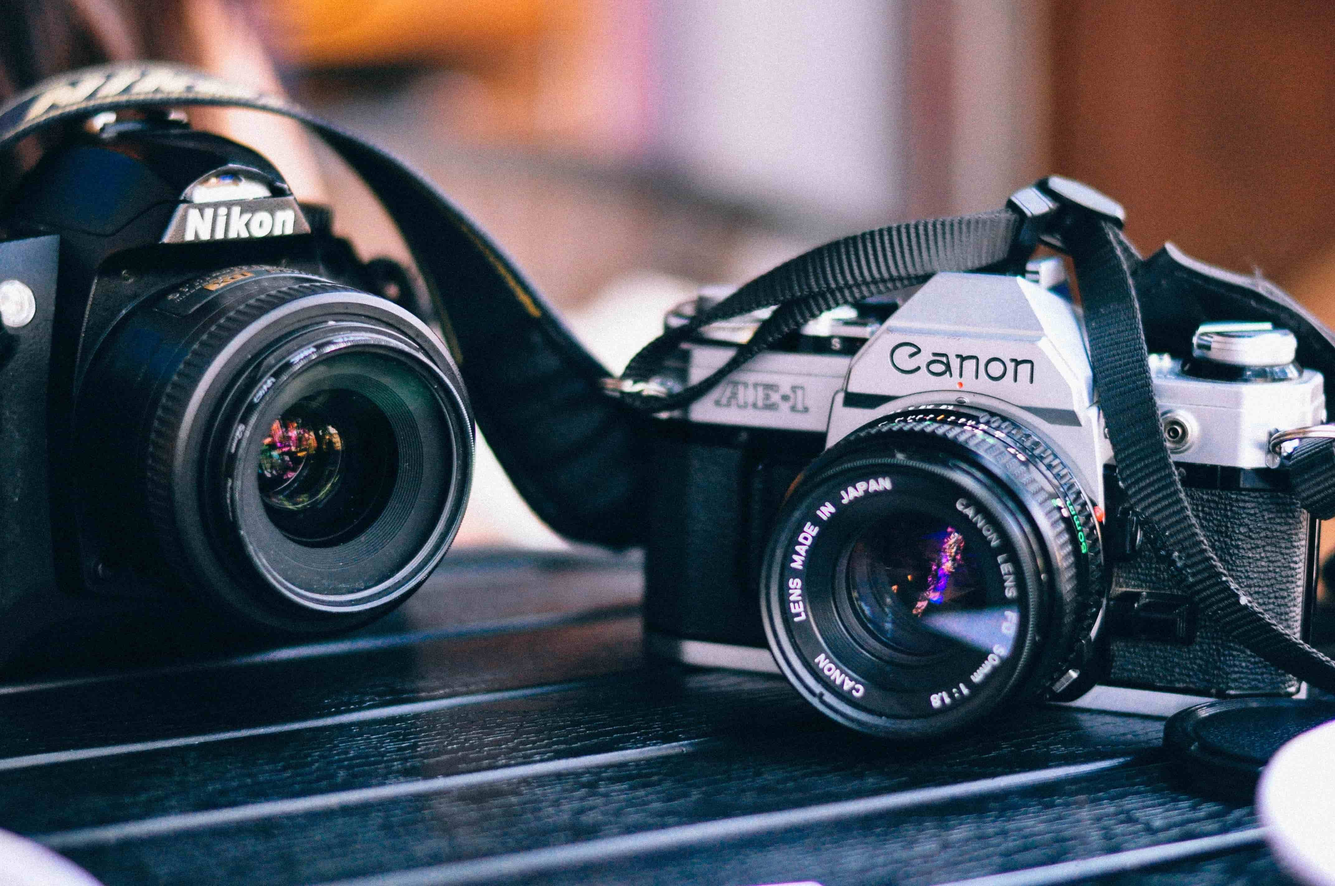
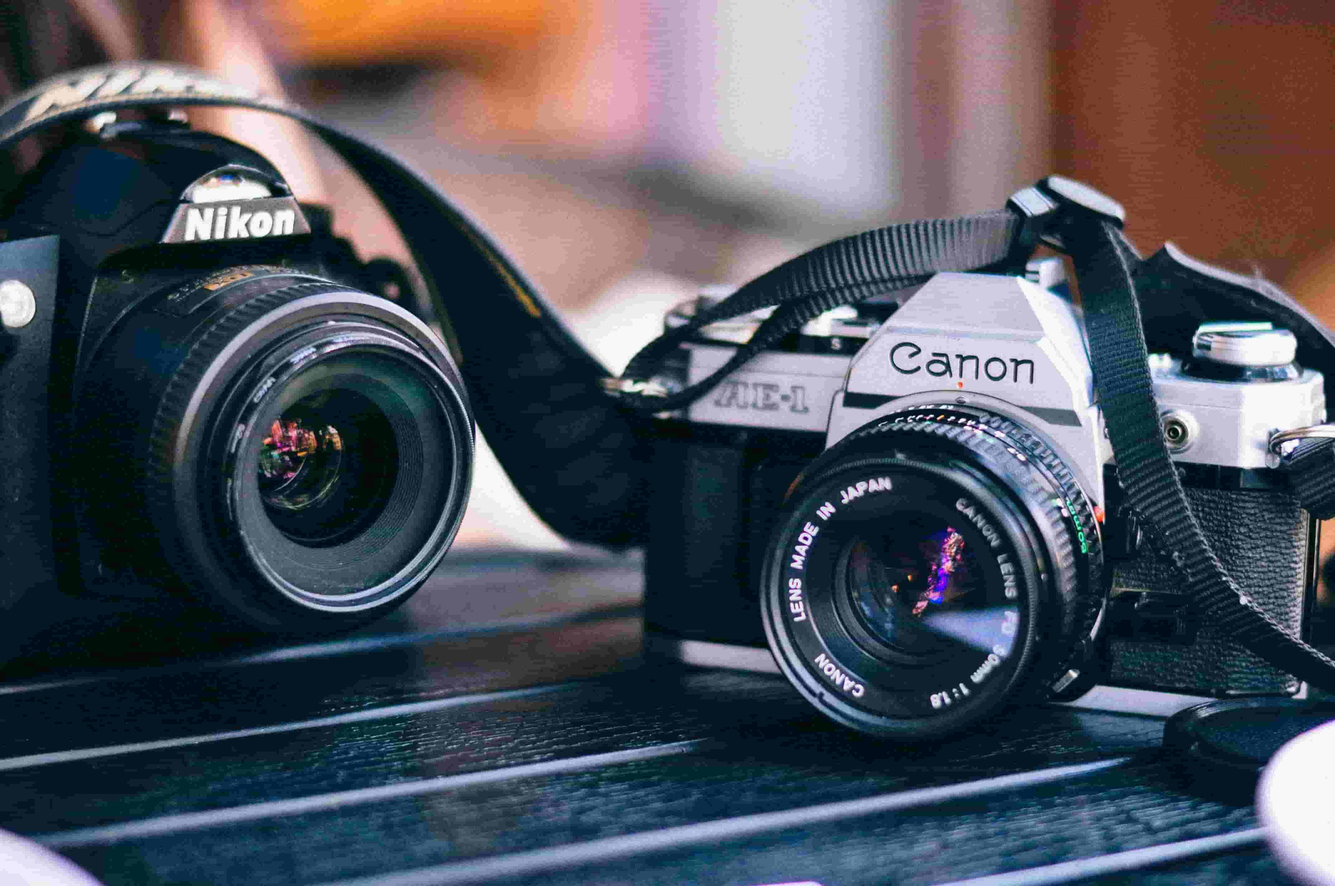
optimized images a second time, add hover effects to buttons, linked navbar

Changed region(s): [[0.7812, 0.5625, 0.8125, 0.5938], [0.6875, 0.625, 0.7188, 0.6562], [0.5938, 0.5938, 0.625, 0.625]]

diff --git a/CSS/index.css b/CSS/index.css
@@ -150,6 +150,7 @@ nav input.nav-input {
   border-radius: 3px;
   margin-left: 20px;
   justify-self: flex-start;
+  font-family: 'Nunito';
 }
 nav div.menu {
   justify-self: flex-end;
@@ -221,7 +222,7 @@ nav a.link:hover {
 }
 @media (max-width: 500px) {
   #home header .logo {
-    width: 350px;
+    width: 300px;
   }
 }
 #home header h1 {
@@ -241,6 +242,7 @@ nav a.link:hover {
   font-size: 1.3rem;
   font-weight: 700;
   transition: background-color 800ms ease, color 400ms ease;
+  outline: none;
 }
 #home header button:hover {
   background-color: rgba(70, 0, 128, 0.795);
@@ -260,6 +262,10 @@ div.selector button {
   border: none;
   font-size: 1.5rem;
   outline: none;
+  transition: font-size 700ms ease;
+}
+div.selector button:hover {
+  font-size: 1.8rem;
 }
 @media  (max-width: 900px) {
   div.selector button {
@@ -274,6 +280,7 @@ div.selector button {
 @media  (max-width: 900px) {
   .card-container {
     flex-wrap: wrap;
+    justify-content: center;
   }
 }
 .card-container .card-container::-webkit-scrollbar-button {
@@ -281,6 +288,7 @@ div.selector button {
 }
 .card {
   min-width: 185px;
+  opacity: 0.4;
   background-color: #d6d6d6;
   background-position: center;
   background-size: cover;
@@ -298,9 +306,14 @@ section#main h2 {
   font-size: 2rem;
   color: #303036;
 }
+@media  (max-width: 900px) {
+  section#main h2 {
+    text-align: center;
+  }
+}
 section#main div.categories .card {
   height: 250px;
-  opacity: 0.5;
+  opacity: 0.7;
   display: flex;
   justify-content: center;
   align-items: flex-end;
@@ -315,20 +328,33 @@ section#main div.categories .card h3 {
   width: 100%;
   text-align: center;
 }
-section#main div.categories .camera {
+@media (max-width: 500px) {
+  section#main div.top-rated {
+    display: none;
+  }
+}
+@media (max-width: 500px) {
+  section#main div.recommended {
+    display: none;
+  }
+}
+section#main .camera {
   background-image: url('/assets/categories/cameras.jpg');
 }
-section#main div.categories .computer {
+section#main .computer {
   background-image: url('/assets/categories/computers.jpg');
 }
-section#main div.categories .drone {
+section#main .drone {
   background-image: url('/assets/categories/drones.jpg');
 }
-section#main div.categories .headphones {
+section#main .headphones {
   background-image: url('/assets/categories/headphones.jpg');
 }
-section#main div.categories .projector {
+section#main .projector {
   background-image: url('/assets/categories/projector.jpg');
+}
+section#main .gear {
+  background-image: url('/assets/categories/gear.jpg');
 }
 section#about-us {
   width: 90%;
@@ -348,6 +374,7 @@ section#about-us div.about-content div.about-img {
   background-position: center;
   background-size: cover;
   min-width: 50%;
+  opacity: 1;
 }
 section#about-us div.about-content p {
   font-size: 1.5rem;
@@ -386,7 +413,7 @@ section#who-header {
   background-attachment: fixed;
 }
 section#who-header div.opacity {
-  background-color: rgba(61, 61, 61, 0.884);
+  background-color: rgba(65, 65, 87, 0.842);
   height: 100%;
   width: 100%;
 }
@@ -454,10 +481,11 @@ section#who .team-container .card {
   border-radius: 2px;
   background-color: #f5f5f5;
   box-shadow: none;
+  opacity: 1;
 }
 section#who .team-container img {
   width: 150px;
-  opacity: 0.8;
+  opacity: 0.9;
   border-radius: 100px;
 }
 section#who .team-container h3 {

diff --git a/index.html b/index.html
@@ -26,15 +26,15 @@
 
                <div class="menu">
                    <a href="about.html" class="link">Who we are</a>
-                   <a href="#" class="link">Signup</a>
-                   <a href="#" class="link">Login</a>
+                   <a href="https://usemytechstuff.netlify.com/" class="link">Signup</a>
+                   <a href="https://usemytechstuff.netlify.com/" class="link">Login</a>
                </div>
               </nav>
 
            <header>
              <img class="logo" src="/assets/Rentech.svg" alt="">
              <h1>Earn cash for your equipment</h1>
-             <button>Let's Go!</button>
+             <a href="https://usemytechstuff.netlify.com/"><button>Let's Go!</button></a>
            </header>
        </div>
 
@@ -51,6 +51,9 @@
                            <div class="card drone"><h3>Drones</h3></div>
                            <div class="card headphones"><h3>Headphones</h3></div>
                            <div class="card projector"><h3>Projectors</h3></div>
+                           <div class="card gear"><h3>Gear</h3></div>
+                           <div class="card camera"><h3>Cameras</h3></div>
+                           <div class="card computer"><h3>Computers</h3></div>
                         </div>
                         <button class="right"><i class="fas fa-arrow-right"></i></button>
                     </div>
@@ -59,19 +62,23 @@
 
            <h2>Top Rated</h2>
             <div class="card-container">
-               <div class="card"></div>
-               <div class="card"></div>
-               <div class="card"></div>
-               <div class="card"></div>
+               <div class="card projector"></div>
+               <div class="card drone"></div>
+               <div class="card headphones"></div>
+               <div class="card camera"></div>
+               <div class="card projector"></div>
+               <div class="card drone"></div>
            </div>
         </div>
         <div class="recommended">
             <h2>Recommended for you</h2>
              <div class="card-container">
-                <div class="card"></div>
-                <div class="card"></div>
-                <div class="card"></div>
-                <div class="card"></div>
+                 <div class="card headphones"></div>
+                 <div class="card projector"></div>
+                 <div class="card camera"></div>
+                 <div class="card drone"></div>
+                <div class="card projector"></div>
+                <div class="card headphones"></div>
              </div>
         </div>
         <hr class="main-seperator">

diff --git a/LESS/main.less b/LESS/main.less
@@ -11,6 +11,10 @@ div.selector {
         border: none;
         font-size: 1.5rem;
         outline: none;
+        transition: font-size 700ms ease;
+        &:hover {
+            font-size: 1.8rem;
+        }
         @media @tablet {
             display: none;
         }
@@ -26,6 +30,7 @@ div.selector {
 
     @media @tablet {
         flex-wrap: wrap;
+        justify-content: center;
     }
     .card-container::-webkit-scrollbar-button {
         color: red;
@@ -34,7 +39,7 @@ div.selector {
 }
 .card {
     min-width: 185px;
-    // border: 1px solid rgba(146, 146, 146, 0.555);
+    opacity: .4;
     background-color: rgb(214, 214, 214);
     background-position: center;
     background-size: cover;
@@ -52,11 +57,14 @@ section#main {
     h2 {
         font-size: 2rem;
         color: #303036;
+        @media @tablet {
+            text-align: center;
+        }
     }
     div.categories {
         .card {
             height: 250px;
-            opacity: .5;
+            opacity: .7;
             display: flex;
             justify-content: center;
             align-items: flex-end;
@@ -71,23 +79,35 @@ section#main {
                 text-align: center;
             }
         }
-        .camera {
-            background-image: url('/assets/categories/cameras.jpg');
+    }
+    div.top-rated {
+        @media @mobile {
+            display: none;
         }
-        .computer {
-            background-image: url('/assets/categories/computers.jpg');
+    }
+    div.recommended {
+        @media @mobile {
+            display: none;
         }
-       .drone {
-        background-image: url('/assets/categories/drones.jpg');
-        }
-        .headphones {
-            background-image: url('/assets/categories/headphones.jpg');
-        }
-        .projector {
-            background-image: url('/assets/categories/projector.jpg');
-        }
- }
-
+    }
+ .camera {
+    background-image: url('/assets/categories/cameras.jpg');
+}
+.computer {
+    background-image: url('/assets/categories/computers.jpg');
+}
+.drone {
+background-image: url('/assets/categories/drones.jpg');
+}
+.headphones {
+    background-image: url('/assets/categories/headphones.jpg');
+}
+.projector {
+    background-image: url('/assets/categories/projector.jpg');
+}
+.gear {
+    background-image: url('/assets/categories/gear.jpg');
+}
 }
 
 
@@ -110,6 +130,7 @@ section#about-us {
             background-position: center;
             background-size: cover;
             min-width: 50%;
+            opacity: 1;
         }
         p {
             font-size: 1.5rem;

diff --git a/JS/scroll.js b/JS/scroll.js
@@ -3,17 +3,17 @@
  const rightButton = document.querySelector('button.right');
  const leftButton = document.querySelector('button.left');
  const categorieDiv = document.querySelector('div.categories .card-container');
- rightButton.addEventListener('mouseover', function(){
+ rightButton.addEventListener('click', function(){
    setInterval(categorieDiv.scrollBy({
      top: 0,
-     left: 200,
+     left: 500,
      behavior: 'smooth'
    }),0);
  })
- leftButton.addEventListener('mouseover', function(){
+ leftButton.addEventListener('click', function(){
    return categorieDiv.scrollBy({
      top: 0,
-     left: -200,
+     left: -500,
      behavior: 'smooth'
    });
  })

diff --git a/about.html b/about.html
@@ -26,9 +26,9 @@
 
                          <div class="menu">
                              <a href="index.html" class="link">Home</a>
-                             <a href="about.html" class="link">Who we are</a>
-                             <a href="#" class="link">Signup</a>
-                             <a href="#" class="link">Login</a>
+                             <a href="#" class="link">Who we are</a>
+                             <a href="https://usemytechstuff.netlify.com/" class="link">Signup</a>
+                             <a href="https://usemytechstuff.netlify.com/" class="link">Login</a>
                          </div>
                         </nav>
 

diff --git a/LESS/about.less b/LESS/about.less
@@ -7,7 +7,7 @@ section#who-header {
     background-position-y: 50%;
     background-attachment: fixed;
     div.opacity {
-        background-color: rgba(61, 61, 61, 0.884);
+        background-color: rgba(65, 65, 87, 0.842);
         height: 100%;
         width: 100%;
     }
@@ -76,12 +76,13 @@ section#who {
             border-radius: 2px;
             background-color: rgb(245, 245, 245);
             box-shadow: none;
+            opacity: 1;
 
         }
         img {
 
            width: 150px;
-           opacity: .8;
+           opacity: .9;
            border-radius: 100px;
         }
         h3 {

diff --git a/LESS/header.less b/LESS/header.less
@@ -26,7 +26,7 @@
             // margin: 0 20%;
             width: 400px;
             @media @mobile {
-                width: 350px;
+                width: 300px;
             }
         }
         h1 {
@@ -50,6 +50,7 @@
                 background-color: rgba(70, 0, 128, 0.795);
                 color: white;
             }
+            outline: none;
         }
     }
 }

diff --git a/LESS/nav.less b/LESS/nav.less
@@ -19,6 +19,7 @@ nav {
         border-radius: 3px;
         margin-left: 20px;
         justify-self: flex-start;
+        font-family: 'Nunito';
     }
     div.menu {
         justify-self: flex-end;
